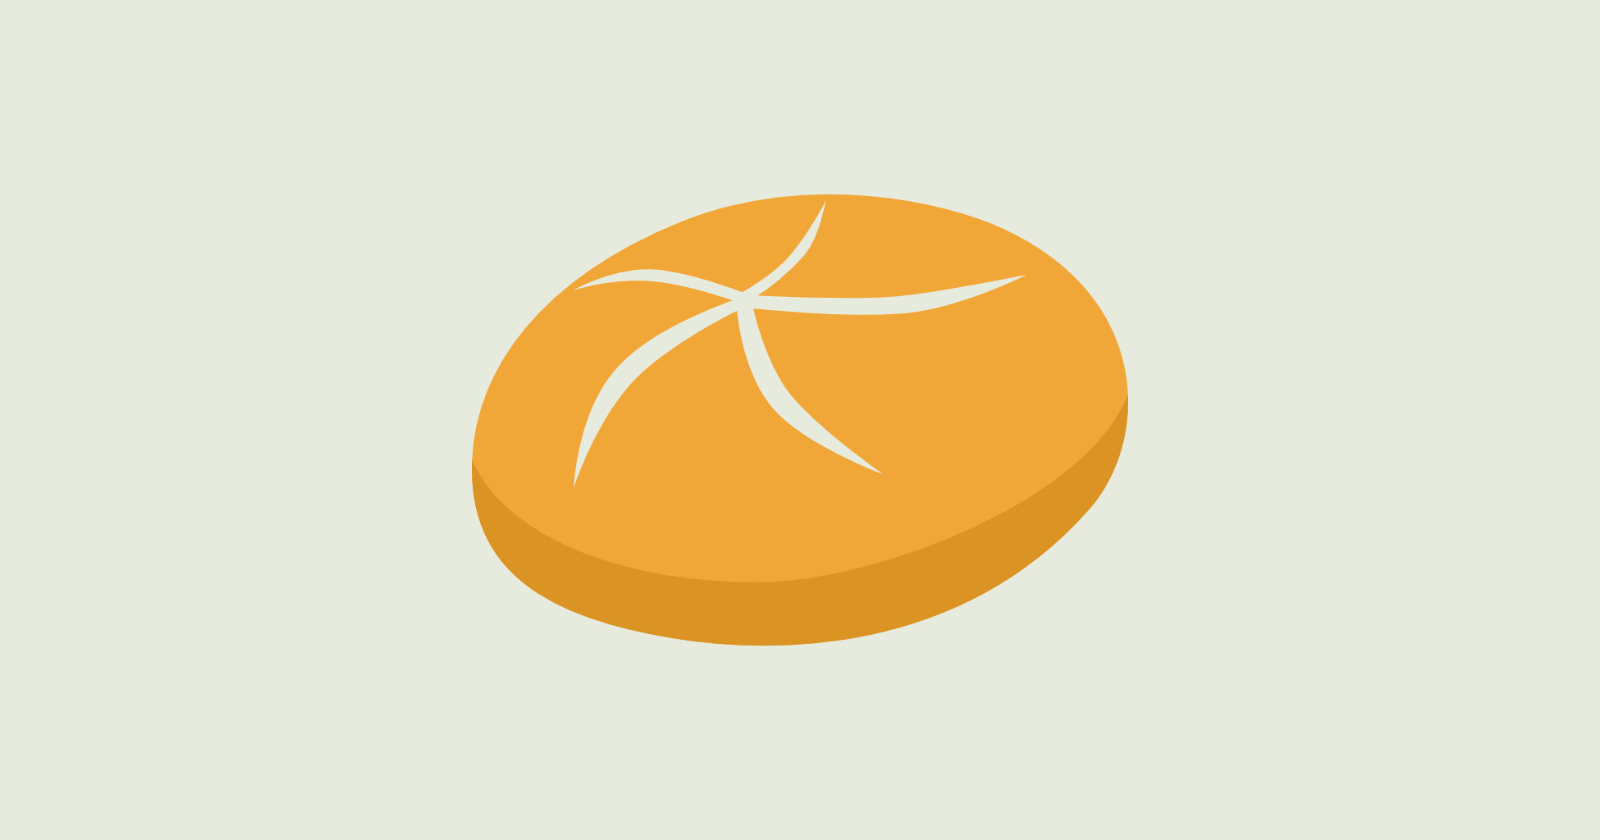
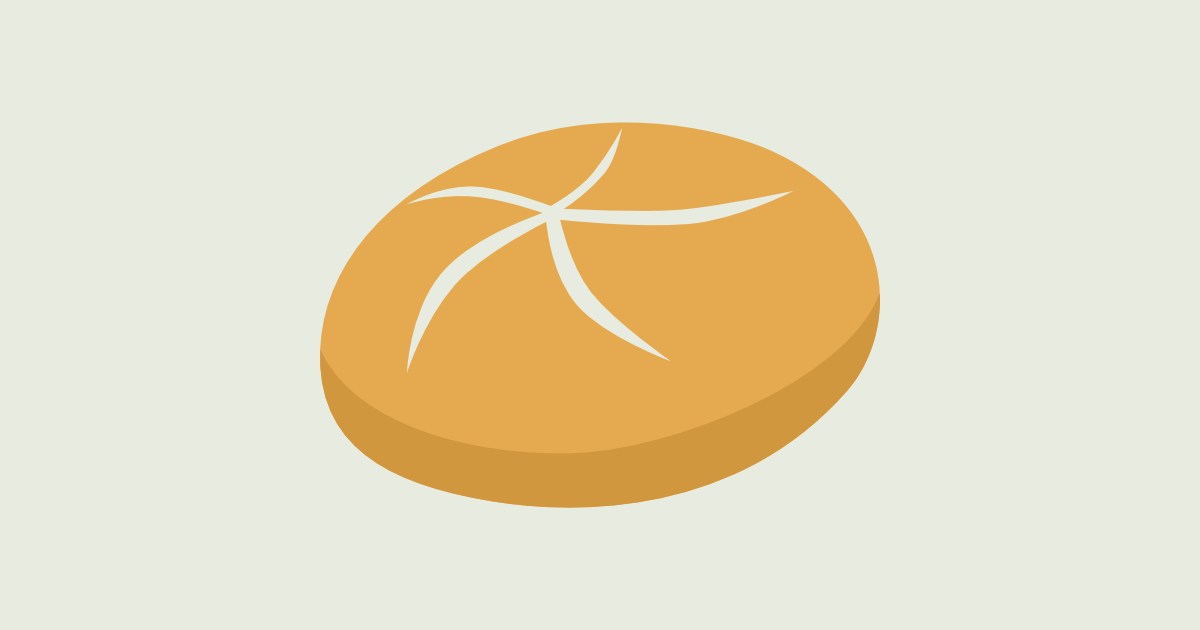
following sizing suggestions

diff --git a/index.html b/index.html
@@ -13,8 +13,8 @@
 	<meta property="og:type" content="website">
 	<meta property="og:url" content="https://semmelstulle.github.io">
 	<meta property="og:image" content="/og-image.png">
-    <meta property="og:image:width" content="1600" />
-    <meta property="og:image:height" content="840" />
+    <meta property="og:image:width" content="1200" />
+    <meta property="og:image:height" content="630" />
     <meta property="og:site_name" content="Semmelstulle">
     <meta property="og:locale" content="en_US">
 	<meta name="twitter:card" content="summary_large_image">
